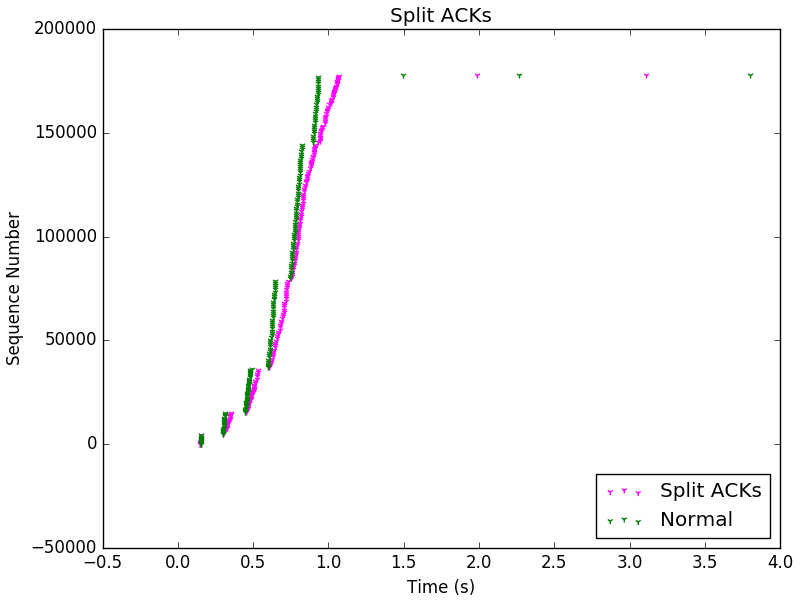
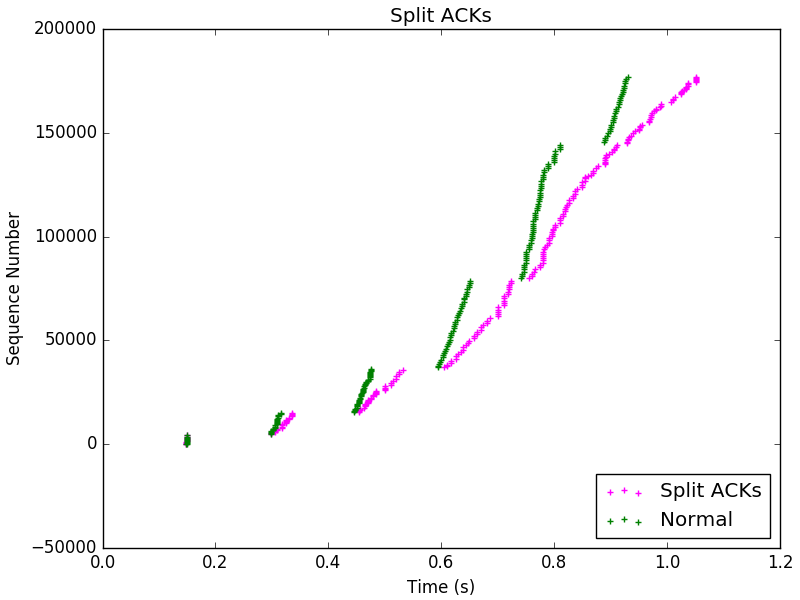
Fixed extra dots on plot

diff --git a/plot.py b/plot.py
@@ -12,10 +12,12 @@ opACKs = np.load("npy/op.npy")
 
 plt.figure(1)
 plt.title("Duplicate ACKs")
-plt.scatter(*zip(dupACKs), label="Duplicate ACKs", color='purple',
-		marker="1")
-plt.scatter(*zip(normalACKs), label="Normal", color='green', 
-		marker="1")
+plt.scatter(dupACKs[0][:-3], dupACKs[1][:-3], 
+		label="Duplicate ACKs", color='purple', 
+		marker="+")
+plt.scatter(normalACKs[0][:-3], normalACKs[1][:-3], 
+		label="Normal", color='green', 
+		marker="+")
 plt.xlabel("Time (s)")
 plt.ylabel("Sequence Number")
 plt.legend(loc="lower right")
@@ -24,10 +26,12 @@ plt.savefig("output/dup.png")
 
 plt.figure(2)
 plt.title("Split ACKs")
-plt.scatter(*zip(splitACKs), label="Split ACKs", color='magenta',
-		marker="1")
-plt.scatter(*zip(normalACKs), label="Normal", color='green',
-		marker="1")
+plt.scatter(splitACKs[0][:-3], splitACKs[1][:-3],
+ 		label="Split ACKs", color='magenta',
+		marker="+")
+plt.scatter(normalACKs[0][:-3], normalACKs[1][:-3], 
+		label="Normal", color='green',
+		marker="+")
 plt.xlabel("Time (s)")
 plt.ylabel("Sequence Number")
 plt.legend(loc="lower right")
@@ -36,10 +40,12 @@ plt.savefig("output/split.png")
 
 plt.figure(3)
 plt.title("Optimistic ACKs")
-plt.scatter(*zip(opACKs), label="Optimistic ACKs", color='blue',
-		marker="1")
-plt.scatter(*zip(normalACKs), label="Normal", color='green', 
-		marker="1")
+plt.scatter(opACKs[0][:-3], opACKs[1][:-3],
+		 label="Optimistic ACKs", color='blue',
+		 marker="+")
+plt.scatter(normalACKs[0][:-3], normalACKs[1][:-3], 
+		label="Normal", color='green', 
+		marker="+")
 plt.xlabel("Time (s)")
 plt.ylabel("Sequence Number")
 plt.legend(loc="lower right")
